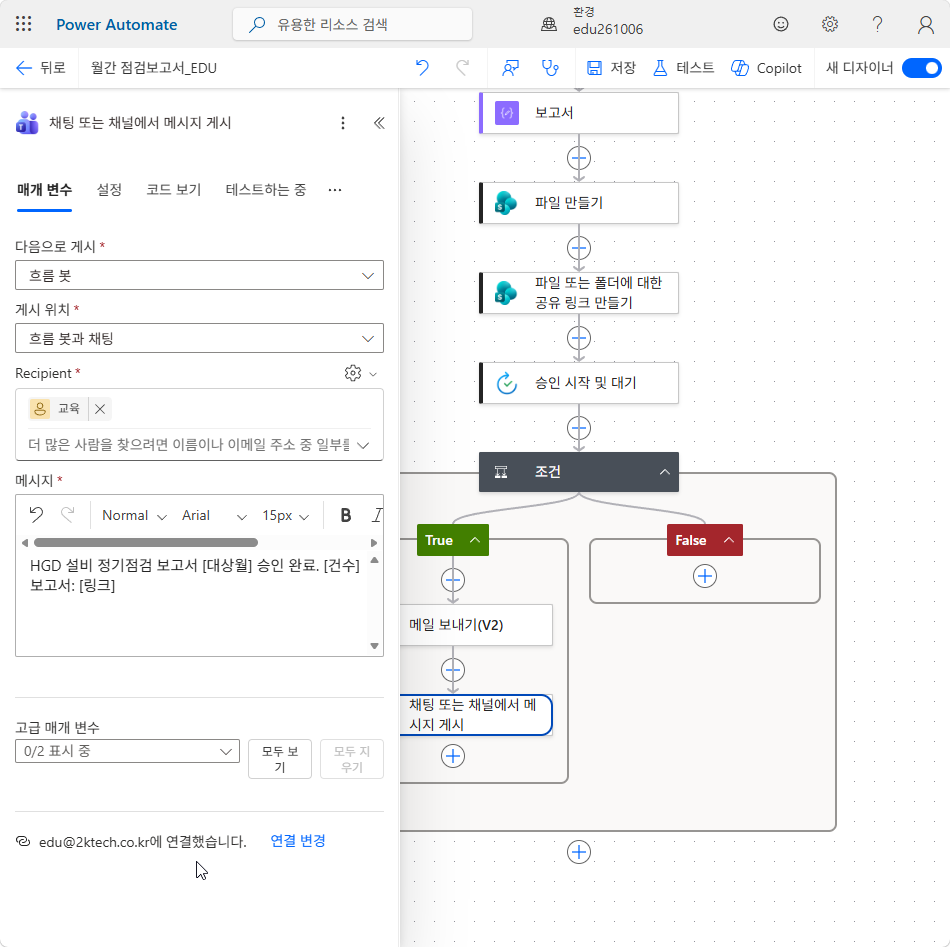
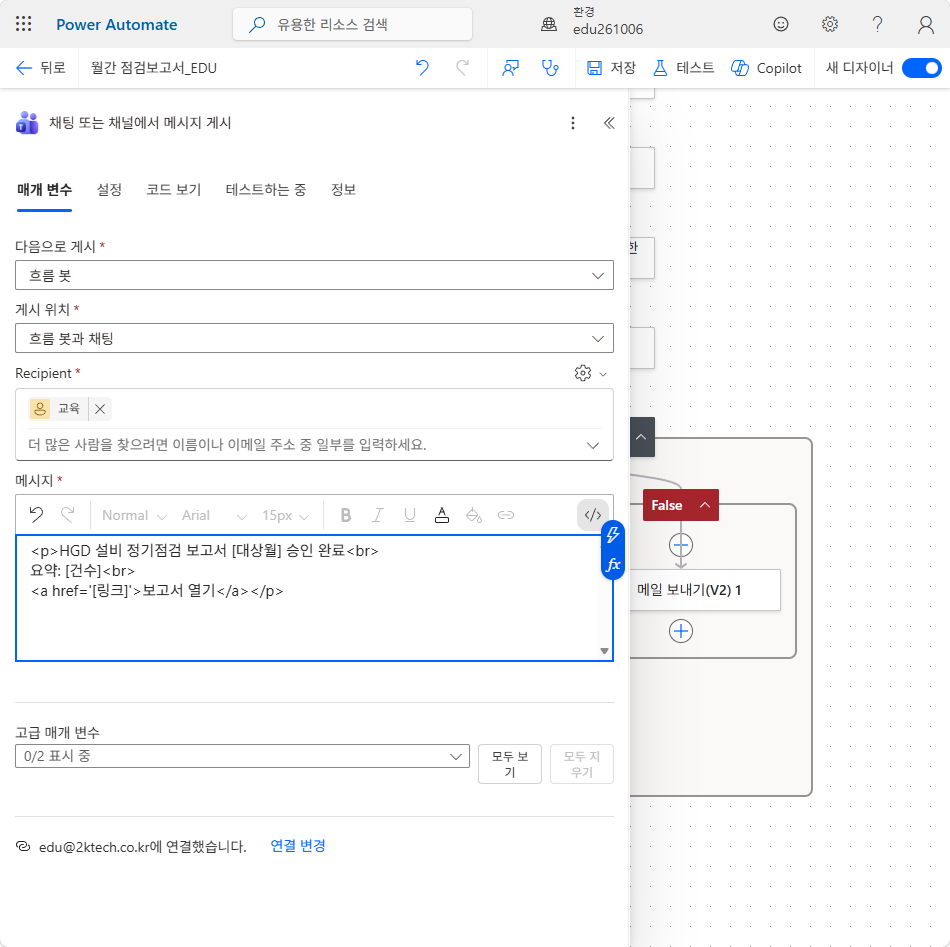
Lab 3 32·33·49번 재촬영 반영 — Teams 메시지 HTML 링크 확인

diff --git a/docs/lab3.md b/docs/lab3.md
@@ -30,7 +30,7 @@ nav_order: 4
         응답 입력칸 이름은 「설명」, 단추는 거부 · 승인이고 확인 단계가 없다. 항목 링크의 .html 은 SharePoint 미리 보기로 열린다.
         Teams 메시지를 한 줄로 붙이면 요약 뒤에 「보고서:」와 URL 이 이어 붙고, URL 은 링크가 되지 않는다(Outlook 은 자동 링크).
         메시지 칸 툴바에 코드 보기(</>) 토글이 있다(제작자 확인) — 32번을 HTML 붙여넣기로 바꿨다. 32 · 33 · 49 재촬영.
-        ⚠ 코드 보기에서 번개 단추로 칩을 넣을 수 있는지, href 안의 칩이 링크로 나가는지는 재촬영 때 확인
+        ✔ 코드 보기에서도 대괄호를 선택해 번개 단추로 칩을 넣을 수 있고, href 안의 공유 링크 칩이 Teams 에서 「보고서 열기」 링크로 나간다(재촬영 실측)
         13번 세부 정보 문구의 「의견 칸」은 화면 이름(설명)과 다르다 — 제작자 판단 대기
       - ✔ 26~41번 실측(2026-10-05). Teams 작업 이름은 「채팅 또는 채널에서 메시지 게시」, 칸은 다음으로 게시 · 게시 위치 · Recipient · 메시지.
         게시 위치를 고르면 Recipient · 메시지 칸이 나타난다. False 갈래 메일 카드 이름은 `메일 보내기(V2) 1`(가정대로). 반려 의견 식은 fx 로 넣으면 `first(...)` 칩이 된다
@@ -293,13 +293,13 @@ nav_order: 4
 
     Teams 흐름 봇 메시지는 메일과 달리 URL 을 링크로 바꿔 주지 않습니다. 줄바꿈은 `<br>`, 링크는 `<a href>` 로 직접 적습니다.[^teamsfmt]
 
-    ![촬영: 코드 보기로 바꾼 메시지 칸에 붙여넣은 HTML](../assets/lab3/lab3-32.png)
+    ![코드 보기로 바꾼 메시지 칸에 붙여넣은 HTML — [대상월] · [건수] · [링크] 자리](../assets/lab3/lab3-32.png)
 
 33. 코드 보기 그대로 대괄호 세 곳을 26·27번과 같은 방법으로 **대상월 › 출력**, **건수 › 출력**, **공유 링크**로 바꿉니다. `[링크]` 는 따옴표 안의 대괄호만 선택합니다.
 
     **완료 기준**: 코드 보기에 대괄호가 남지 않고, `href=` 뒤 작은따옴표 안에 공유 링크 칩이 있다.
 
-    ![촬영: 코드 보기의 출력 칩 두 개와 href 안의 공유 링크 칩](../assets/lab3/lab3-33.png)
+    ![코드 보기의 출력 칩 두 개와 href 작은따옴표 안의 공유 링크 칩](../assets/lab3/lab3-33.png)
 
 34. 위쪽 명령 모음의 **저장**을 누릅니다.
 
@@ -409,7 +409,7 @@ nav_order: 4
 
     **완료 기준**: `HGD 설비 정기점검 보고서 2026-09 승인 완료` · `요약: 점검 32건 · 주의 3 · 이상 2` · **보고서 열기** 세 줄이 보이고, 보고서 열기를 누르면 보고서가 열린다.
 
-    ![촬영: 워크플로 채팅에 온 세 줄 승인 완료 메시지와 보고서 열기 링크](../assets/lab3/lab3-49.png)
+    ![워크플로 채팅에 온 세 줄 승인 완료 메시지와 보고서 열기 링크](../assets/lab3/lab3-49.png)
 
 50. Power Automate 탭으로 돌아가 실행 결과를 확인합니다.
 
